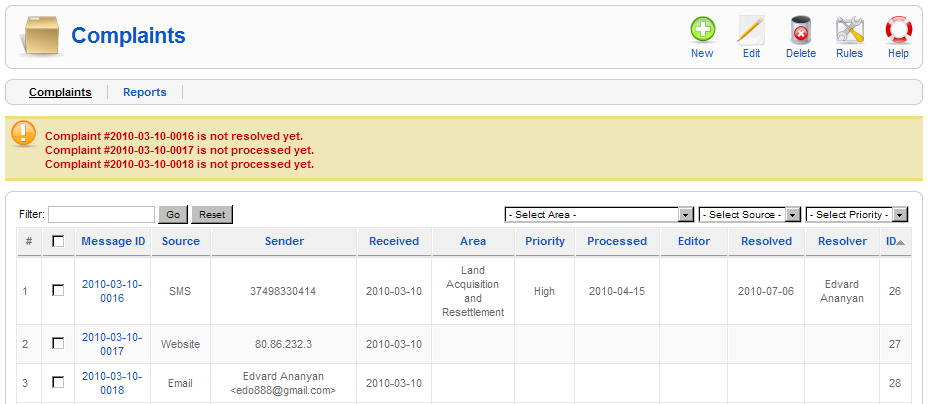
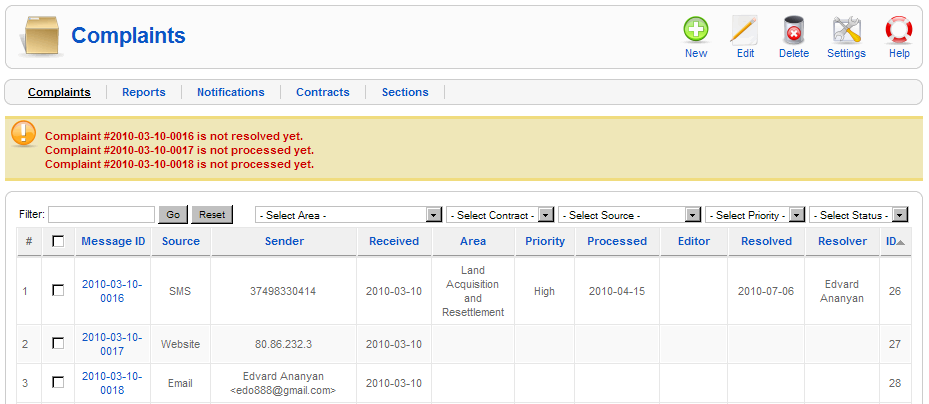
Help screens updated

diff --git a/com_cls/admin/help/en-GB/screen.cls.html b/com_cls/admin/help/en-GB/screen.cls.html
@@ -51,13 +51,13 @@
                     <li><p><b>New</b>. Opens a new complaint creation form.</p></li>
                     <li><p><b>Edit</b>. Select one item and click on this button to open it in edit mode. You can also open an item for editing by clicking on its Message ID.</p></li>
                     <li><p><b>Delete</b>. Select one item and click on this button to delete it. It will delete the complaint.</p></li>
-                    <li><p><b>Rules</b>. Opens component configuration settings.</p></li>
+                    <li><p><b>Settings</b>. Opens component configuration settings.</p></li>
                     <li><p><b>Help</b>. Opens this Help Screen.</p></li>
                 </ul>
 
                 <h2><span class="mw-headline">Quick Tips</span></h2>
                 <ul>
-                    <li><p>If the complaint is not processed/resolved in N days specified in the Rules, you will see a warning message on the top.</p></li>
+                    <li><p>If the complaint is not processed/resolved in N days specified in the Settings, you will see a warning message on the top.</p></li>
                     <li><p>If you want to see statistics data about complaints you can navigate to Reports section from the top left under Complaints title.</p></li>
                     <li><p>If you don't see a button described here, it means that you don't have permission to do the appropriate action.</p></li>
                     <li><p>If you are an admin and want to add/modify roles for the users, you need to do that from Site -> User Manager.</p></li>
@@ -66,6 +66,8 @@
                 <h2><span class="mw-headline">Related Information</span></h2>
                 <ul>
                     <li>For creating/processing/resolving a complaint you may consider reading: <a href="screen.cls.new.html">New Complaint</a></li>
+                    <li>For adding/editing contracts you may consider reading: <a href="screen.cls.contracts.html">Contracts</a></li>
+                    <li>For adding/editing sections you may consider reading: <a href="screen.cls.sections.html">Sections</a></li>
                 </ul>
             </td>
         </tr>

diff --git a/com_cls/admin/help/en-GB/screen.cls.sections.html b/com_cls/admin/help/en-GB/screen.cls.sections.html
@@ -1,0 +1,41 @@
+<?xml version="1.0" encoding="iso-8859-1"?>
+<!DOCTYPE html PUBLIC "-//W3C//DTD XHTML 1.0 Transitional//EN" "http://www.w3.org/TR/xhtml1/DTD/xhtml1-transitional.dtd">
+<html xmlns="http://www.w3.org/1999/xhtml">
+<head>
+    <title>Complaint Logging System - Help</title>
+    <link type="text/css" href="http://help.joomla.org/templates/jw_joomla/css/template_css.css" rel="stylesheet" />
+    <meta http-equiv="content-type" content="text/html; charset=iso-8859-1" />
+</head>
+<body class="contentpane">
+    <table class="contentpaneopen">
+        <tr>
+            <td class="contentheading" width="100%">Adding/Editing Sections</td>
+        </tr>
+        <tr>
+            <td valign="top">
+                <h2><span class="mw-headline">Description</span></h2>
+                <p>
+                    Here you can add or edit sections specific to your project and tag them on the map.
+                </p>
+
+                <h2><span class="mw-headline">Screenshot</span></h2>
+                <p><span class="image"><img src="com_cls_section_map.png" alt="Image:com_cls_section_map.png" border="0" /></span></p>
+
+                <h2><span class="mw-headline">Quick Tips</span></h2>
+                <ul>
+                    <li><p>You can tag a road by using the polyline tool.</p></li>
+                    <li><p>You can add a polygon by using the polygon tool.</p></li>
+                    <li><p>You can add one road and/or one polygon for a section.</p></li>
+                </ul>
+
+                <h2><span class="mw-headline">Related Information</span></h2>
+                <ul>
+                    <li>For creating/processing/resolving a complaint you may consider reading: <a href="screen.cls.new.html">New Complaint</a></li>
+                    <li>For adding/editing contracts you may consider reading: <a href="screen.cls.contracts.html">Contracts</a></li>
+                    <li>For adding/editing sections you may consider reading: <a href="screen.cls.sections.html">Sections</a></li>
+                </ul>
+            </td>
+        </tr>
+    </table>
+</body>
+</html>

diff --git a/com_cls/admin/help/en-GB/screen.cls.contracts.html b/com_cls/admin/help/en-GB/screen.cls.contracts.html
@@ -1,0 +1,37 @@
+<?xml version="1.0" encoding="iso-8859-1"?>
+<!DOCTYPE html PUBLIC "-//W3C//DTD XHTML 1.0 Transitional//EN" "http://www.w3.org/TR/xhtml1/DTD/xhtml1-transitional.dtd">
+<html xmlns="http://www.w3.org/1999/xhtml">
+<head>
+    <title>Complaint Logging System - Help</title>
+    <link type="text/css" href="http://help.joomla.org/templates/jw_joomla/css/template_css.css" rel="stylesheet" />
+    <meta http-equiv="content-type" content="text/html; charset=iso-8859-1" />
+</head>
+<body class="contentpane">
+    <table class="contentpaneopen">
+        <tr>
+            <td class="contentheading" width="100%">Adding/Editing Contracts</td>
+        </tr>
+        <tr>
+            <td valign="top">
+                <h2><span class="mw-headline">Description</span></h2>
+                <p>
+                    Here you can add or edit contracts specific to your project and assign them to sections.
+                </p>
+
+                <h2><span class="mw-headline">Quick Tips</span></h2>
+                <ul>
+                    <li><p>You need to create sections first, so you can assign the contract to it.</p></li>
+                    <li><p>You can write a description about the contract.</p></li>
+                </ul>
+
+                <h2><span class="mw-headline">Related Information</span></h2>
+                <ul>
+                    <li>For creating/processing/resolving a complaint you may consider reading: <a href="screen.cls.new.html">New Complaint</a></li>
+                    <li>For adding/editing contracts you may consider reading: <a href="screen.cls.contracts.html">Contracts</a></li>
+                    <li>For adding/editing sections you may consider reading: <a href="screen.cls.sections.html">Sections</a></li>
+                </ul>
+            </td>
+        </tr>
+    </table>
+</body>
+</html>

diff --git a/com_cls/admin/help/en-GB/screen.cls.new.html b/com_cls/admin/help/en-GB/screen.cls.new.html
@@ -41,6 +41,7 @@
 
                 <h2><span class="mw-headline">Quick Tips</span></h2>
                 <ul>
+                    <li><p>You can upload a picture which will be assigned to the complaint.</p></li>
                     <li><p>If you don't see a button described here or cannot edit a section, it means that you don't have permission to do the appropriate action.</p></li>
                     <li><p>If you are an admin and want to add/modify roles for the users, you need to do that from Site -> User Manager.</p></li>
                 </ul>

diff --git a/com_cls/admin/toolbar.cls.html.php b/com_cls/admin/toolbar.cls.html.php
@@ -42,7 +42,7 @@ class TOOLBAR_CLS {
             else
                 JToolBarHelper::cancel('cancelContract');
 
-            JToolBarHelper::help('screen.cls.newContract', true);
+            JToolBarHelper::help('screen.cls.contracts', true);
         } elseif(JRequest::getCmd('task') == 'editSection' or JRequest::getCmd('task') == 'addSection') {
             JToolBarHelper::title(JText::_('Complaint').': <small><small>[ ' . $text . ' Section ]</small></small>');
             if($user_type != 'Viewer')
@@ -54,7 +54,7 @@ class TOOLBAR_CLS {
             else
                 JToolBarHelper::cancel('cancelSection');
 
-            JToolBarHelper::help('screen.cls.newSection', true);
+            JToolBarHelper::help('screen.cls.sections', true);
         }
     }
 
@@ -97,6 +97,11 @@ class TOOLBAR_CLS {
         if($user_type == 'Super User' and $mainframe->isAdmin())
             JToolBarHelper::preferences('com_cls', '550', '570', 'Settings');
 
-        JToolBarHelper::help('screen.cls', true);
+        if(JRequest::getCmd('c', 'complaints') == 'complaints')
+            JToolBarHelper::help('screen.cls', true);
+        elseif(JRequest::getCmd('c', 'complaints') == 'contracts')
+            JToolBarHelper::help('screen.cls.contracts', true);
+        elseif(JRequest::getCmd('c', 'complaints') == 'sections')
+            JToolBarHelper::help('screen.cls.sections', true);
     }
 }
